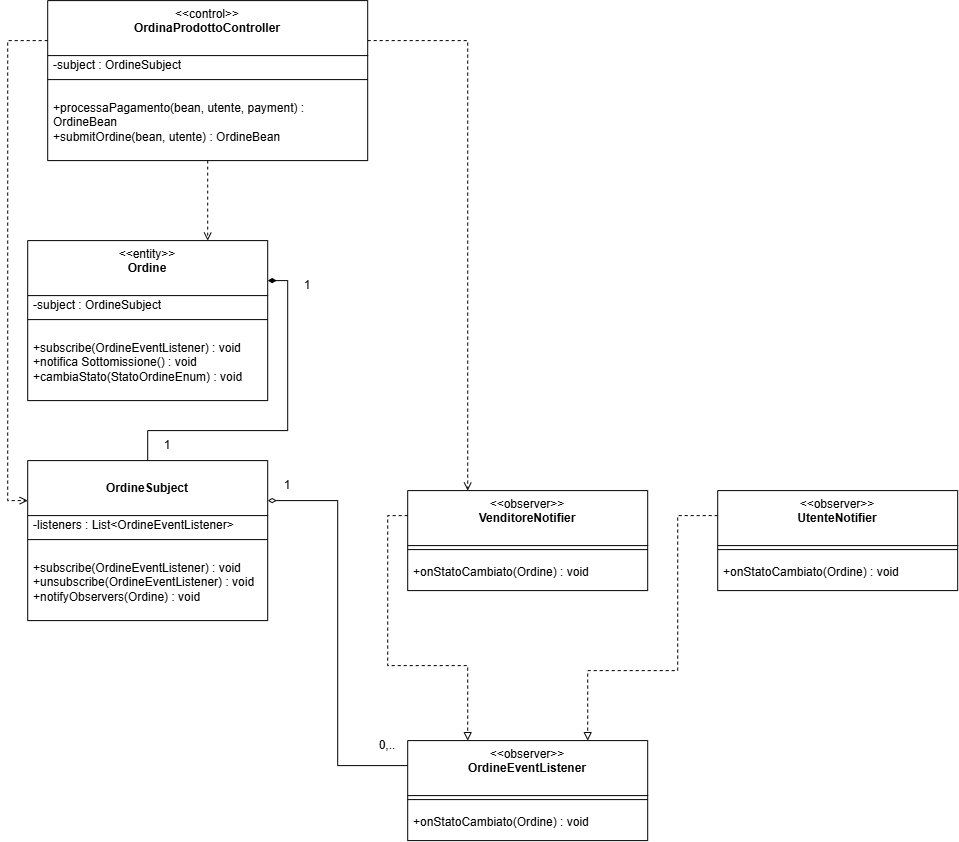
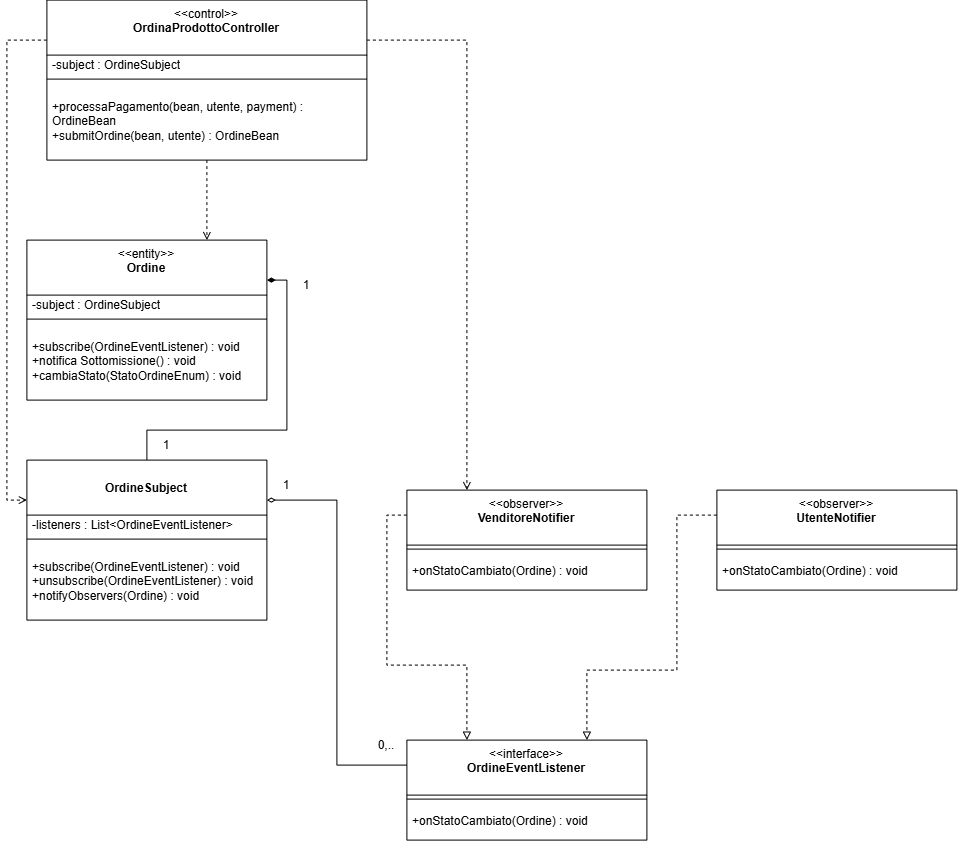
docs: rimosso frammento fuori contesto su ScontoStrategyFactory dalla sezione Singleton

diff --git a/docs/relazione_italiana/chapters/03_design.tex b/docs/relazione_italiana/chapters/03_design.tex
@@ -68,7 +68,7 @@ che notifica gli osservatori \texttt{VenditoreNotifier} e \texttt{UtenteNotifier
 \subsection{Singleton (sessione e modalità)}
 \texttt{SessionManager} (sessione utente) e \texttt{ApplicationModeManager}
 (modalità applicativa) garantiscono un'unica istanza tramite \emph{Holder
-idiom}; \texttt{ScontoStrategyFactory} espone un metodo statico di creazione.
+idiom}.
 
 \begin{figure}[H]
     \centering
